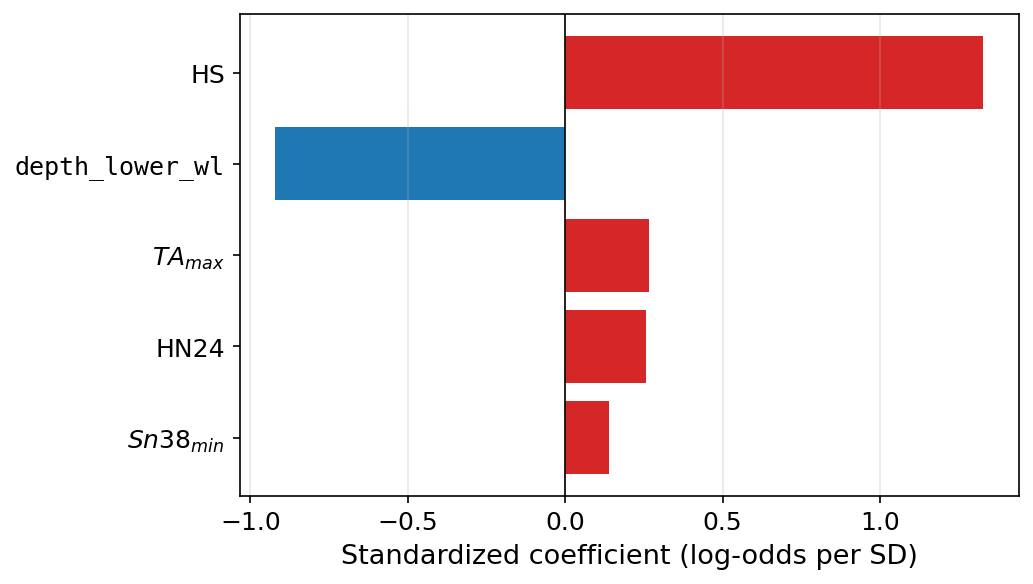
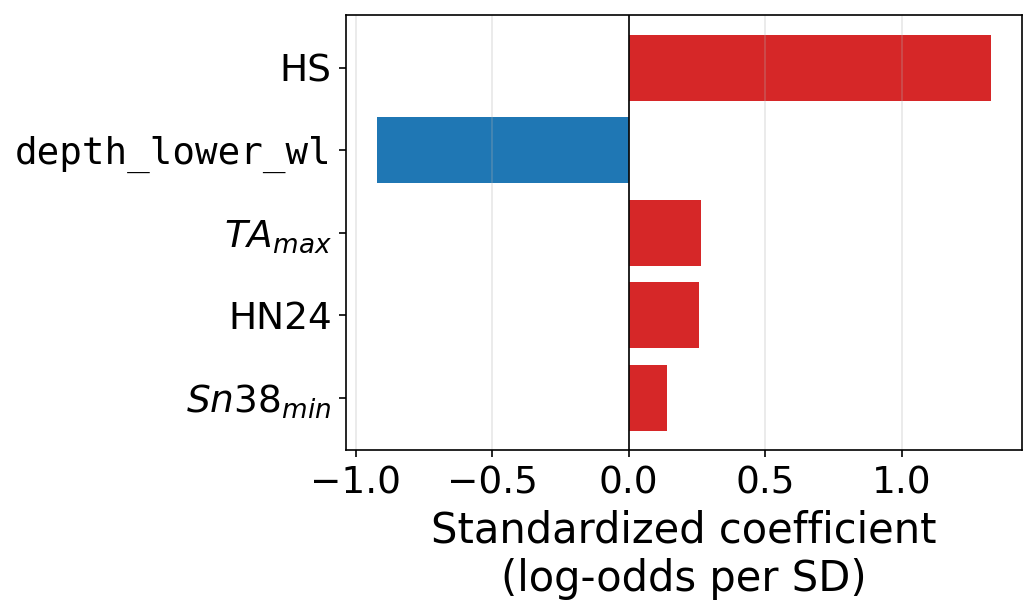
Enlarge type in paper Figures 3 and 4 for print legibility
Both figures are authored at ~8 in wide and printed into a ~3.4 in
column, so on-page type is roughly 0.41x the matplotlib fontsize. At the
old sizes that put axis labels near 5 pt, well under the ~9 pt body
text. Raise the figure-local sizes to land both around 8-9 pt on the
page, and note in the constants that only the fontsize-to-canvas-width
ratio matters — raising fontsize and figsize together changes nothing.

Give the learning curve its own LOO_* constants rather than reusing the
FIG_* set from visualization.py, which also drives the full-width study
area map (Figure 1) and should not change.

Layout fixes the larger type forced:
  - legend to two columns, further below the x-axis label
  - y-label shortened and set a size down; rotated text is bounded by
    the axes height, and the old wording clipped mid-word
  - Figure 4 x-label split across two lines to stay on canvas
  - save with bbox_inches='tight' instead of a fixed bottom margin

Figures regenerated from output/evaluation_loo.csv and
models/regional.joblib; values are unchanged.

diff --git a/src/main.py b/src/main.py
@@ -16,9 +16,8 @@ from classifier import (aggregate_predictions, blend_probabilities,
                         train_regional, train_station)
 from features import build_daily_features
 from snowpack_io import extract_pro_coordinates, find_nearest_pro, parse_snow_data
-from visualization import (FIG_ANNOT_SIZE, FIG_LABEL_SIZE, FIG_LEGEND_SIZE,
-                           FIG_TICK_SIZE, create_avalanche_map,
-                           plot_interactive_stability, plot_static_map)
+from visualization import (create_avalanche_map, plot_interactive_stability,
+                           plot_static_map)
 
 # ── season config ─────────────────────────────────────────────────────────────
 # SEASON:       current / test season — used for prediction, plots, and the map.
@@ -83,7 +82,17 @@ def _parse_args() -> argparse.Namespace:
 
 
 PRE_EVENT_WINDOW = 3  # days before event counted as a "warning window"
+
 LOO_THRESHOLD    = 0.5  # probability above which a day counts as a warning
+
+# Learning-curve figure (Figure 3 in the ISSW paper).  Sizes are points per
+# inch of canvas, not points on the page: the figure is authored 8 in wide and
+# printed at ~3.4 in column width, so on-page type is ~0.41x these values.
+# Raising fontsize and figsize together is a no-op — only the ratio matters.
+LOO_LABEL_SIZE  = 20
+LOO_TICK_SIZE   = 18
+LOO_LEGEND_SIZE = 15
+LOO_ANNOT_SIZE  = 15
 
 
 def _run_loo_folds(
@@ -888,52 +897,53 @@ def main() -> None:
             # detected/missed distinction survives grayscale printing and
             # red-green color blindness, not just the color channel.
             ax.scatter(x[detected],  ep[detected],
-                       color='#2ca02c', marker='o', s=70, alpha=0.8, zorder=3,
+                       color='#2ca02c', marker='o', s=90, alpha=0.8, zorder=3,
                        label='Detected (prob ≥ 0.5)')
             ax.scatter(x[~detected], ep[~detected],
-                       color='#d62728', marker='X', s=70, alpha=0.8, zorder=3,
+                       color='#d62728', marker='X', s=90, alpha=0.8, zorder=3,
                        label='Missed (prob < 0.5)')
 
             # Mean per n_train
             mean_by_n = plot_df.groupby('n_train_events')['event_prob'].mean()
             ax.plot(mean_by_n.index.to_numpy(dtype=float), mean_by_n.to_numpy(dtype=float),
-                    'k--o', linewidth=1.8, markersize=7, zorder=4, label='Mean')
+                    'k--o', linewidth=2.0, markersize=9, zorder=4, label='Mean')
 
             # Non-event background reference
             non_event_ref = plot_df['non_event_median'].median()
             if not pd.isna(non_event_ref):
                 ax.axhline(non_event_ref, color='steelblue', linestyle=':',
-                           linewidth=1.2,
+                           linewidth=1.5,
                            label=f'Median non-event prob ({non_event_ref:.3f})')
 
-            ax.axhline(0.5, color='grey', linestyle='--', linewidth=1,
+            ax.axhline(0.5, color='grey', linestyle='--', linewidth=1.2,
                        alpha=0.6, label='0.5 threshold')
 
             # Fold counts per n_train
             for n, cnt in plot_df.groupby('n_train_events').size().items():
-                ax.text(float(n), -0.15, f'n={cnt}', ha='center',
-                        fontsize=FIG_ANNOT_SIZE, color='#555',
+                ax.text(float(n), -0.11, f'n={cnt}', ha='center',
+                        fontsize=LOO_ANNOT_SIZE, color='#555',
                         transform=ax.get_xaxis_transform())
 
-            ax.set_xlabel('Number of training events', fontsize=FIG_LABEL_SIZE,
-                          labelpad=28)
+            ax.set_xlabel('Number of training events', fontsize=LOO_LABEL_SIZE,
+                          labelpad=44)
+            # Shorter than the x-label and a size down: rotated text is bounded
+            # by the axes height, which is the tighter constraint here.
             ax.set_ylabel(f'Event window probability\n'
-                          f'(max prob in {PRE_EVENT_WINDOW} days before event)',
-                          fontsize=FIG_LABEL_SIZE)
-            ax.tick_params(axis='both', labelsize=FIG_TICK_SIZE)
+                          f'({PRE_EVENT_WINDOW}-day pre-event max)',
+                          fontsize=LOO_TICK_SIZE)
+            ax.tick_params(axis='both', labelsize=LOO_TICK_SIZE)
             n_max = int(plot_df['n_train_events'].max())
             ax.set_xlim(0.5, n_max + 0.5)
             ax.set_ylim(-0.02, 1.02)
             ax.set_xticks(range(1, n_max + 1))
             # Legend sits below the x-axis label so it cannot cover the n=1
             # cluster, which is the densest part of the plot.
-            ax.legend(fontsize=FIG_LEGEND_SIZE, loc='upper center',
-                      bbox_to_anchor=(0.5, -0.34), ncol=3,
+            ax.legend(fontsize=LOO_LEGEND_SIZE, loc='upper center',
+                      bbox_to_anchor=(0.5, -0.38), ncol=2,
                       frameon=True, borderaxespad=0.0)
             ax.grid(True, alpha=0.3)
-            fig.subplots_adjust(bottom=0.38)
             perf_path = out_dir / "loo_performance_by_events.png"
-            fig.savefig(str(perf_path), dpi=150)
+            fig.savefig(str(perf_path), dpi=150, bbox_inches='tight')
             plt.close(fig)
             print(f"  → saved {perf_path}")
 

diff --git a/src/classifier.py b/src/classifier.py
@@ -26,8 +26,10 @@ from sklearn.preprocessing import StandardScaler
 # Standardized font sizes matching every other print figure in the paper
 # (see FIG_* constants in visualization.py); duplicated here rather than
 # imported to avoid pulling folium/contextily/plotly into this module.
-FIG_LABEL_SIZE = 13
-FIG_TICK_SIZE  = 12
+# Sized in points-per-inch-of-canvas: Figure 4 is authored at 7 in wide and
+# printed at ~3.4 in column width, so on-page type is ~0.47x these values.
+FIG_LABEL_SIZE = 20
+FIG_TICK_SIZE  = 18
 
 
 # Reduced 5-feature set (default).  Each feature is physically distinct, chosen
@@ -330,7 +332,7 @@ def plot_feature_importance(
     ).sort_values(key=abs)
     colors = ['#d62728' if w > 0 else '#1f77b4' for w in coef_df]
 
-    fig, ax = plt.subplots(figsize=(7, 4))
+    fig, ax = plt.subplots(figsize=(7, 4.2))
     ax.barh(coef_df.index, coef_df.values, color=colors)
     ax.set_yticklabels(
         [_FEATURE_DISPLAY_NAMES.get(name, name) for name in coef_df.index]
@@ -340,7 +342,8 @@ def plot_feature_importance(
         if label.get_text() == 'depth_lower_wl':
             label.set_fontfamily('monospace')
     ax.axvline(0, color='black', linewidth=0.8)
-    ax.set_xlabel('Standardized coefficient (log-odds per SD)', fontsize=FIG_LABEL_SIZE)
+    # Two lines so the label stays inside the canvas at print type size.
+    ax.set_xlabel('Standardized coefficient\n(log-odds per SD)', fontsize=FIG_LABEL_SIZE)
     ax.grid(axis='x', alpha=0.3)
     plt.tight_layout()
     fig.savefig(str(out_path), dpi=150, bbox_inches='tight')
